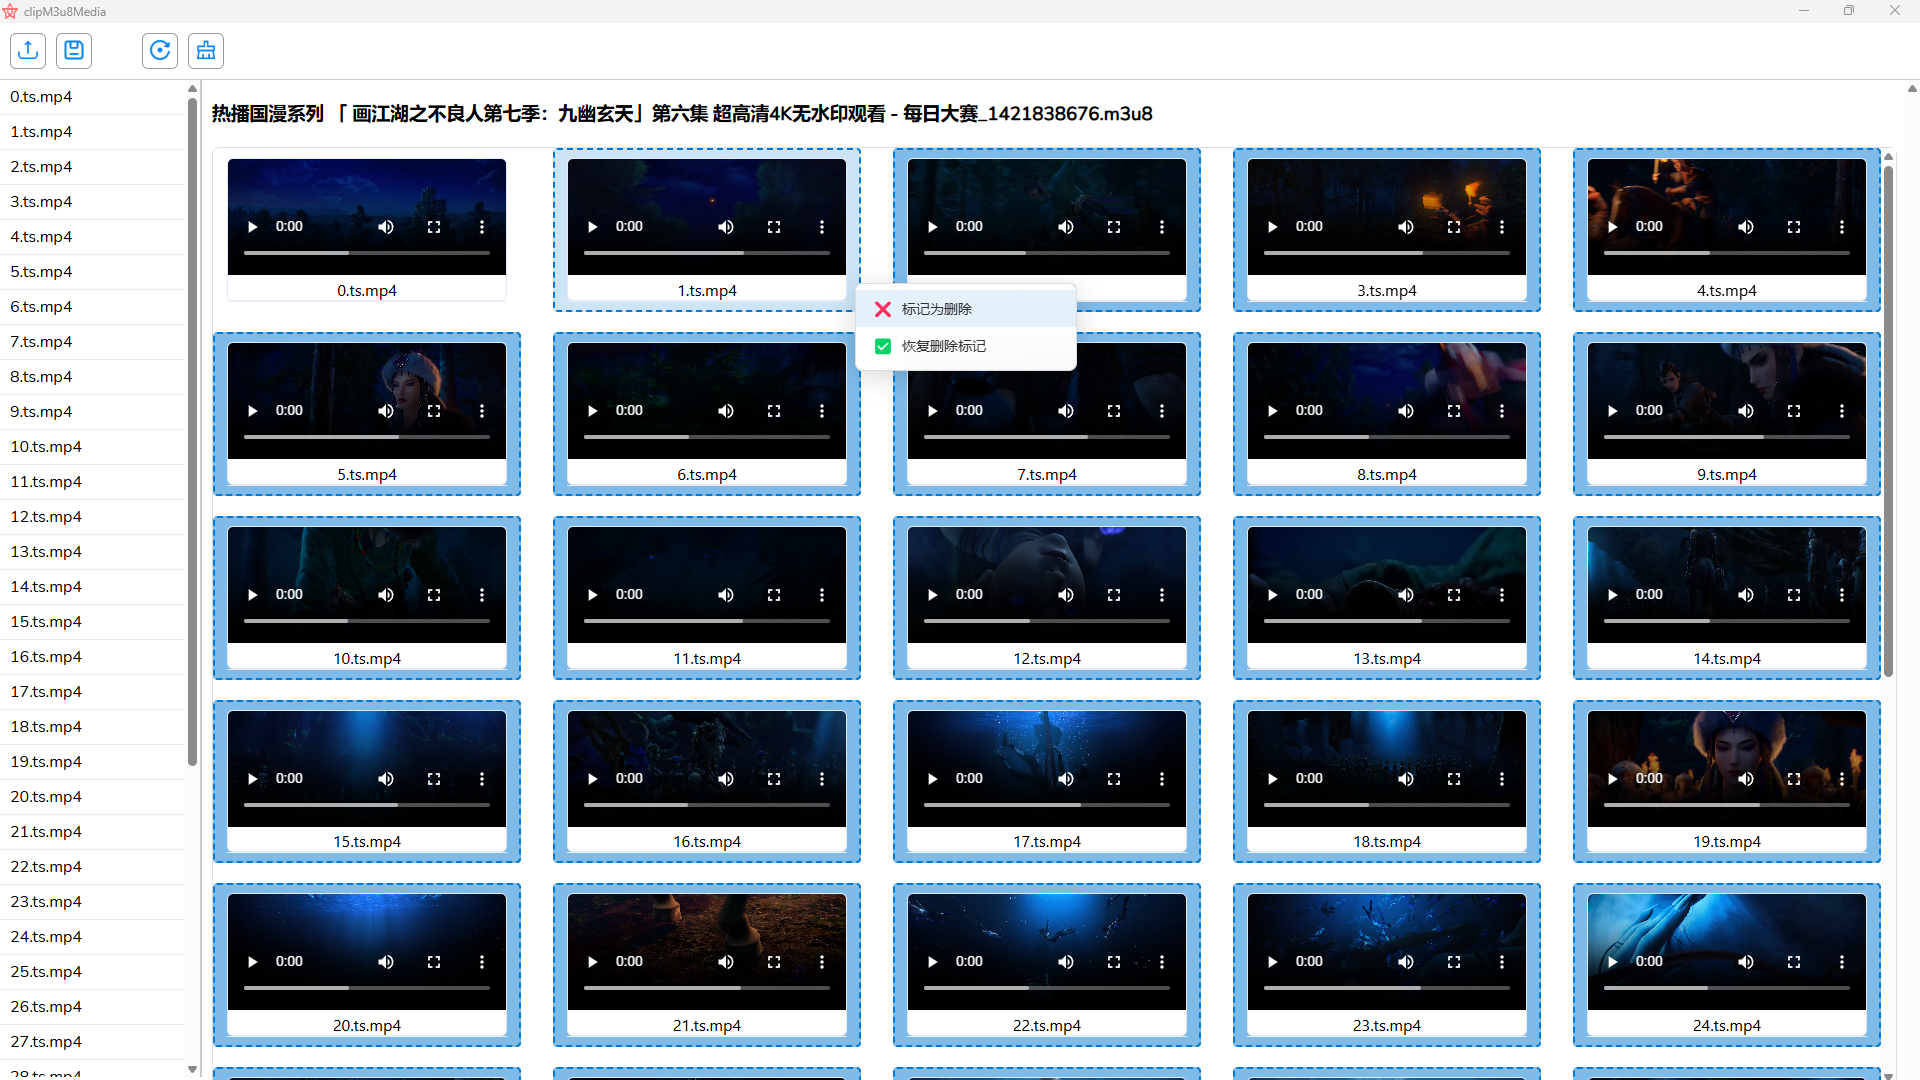
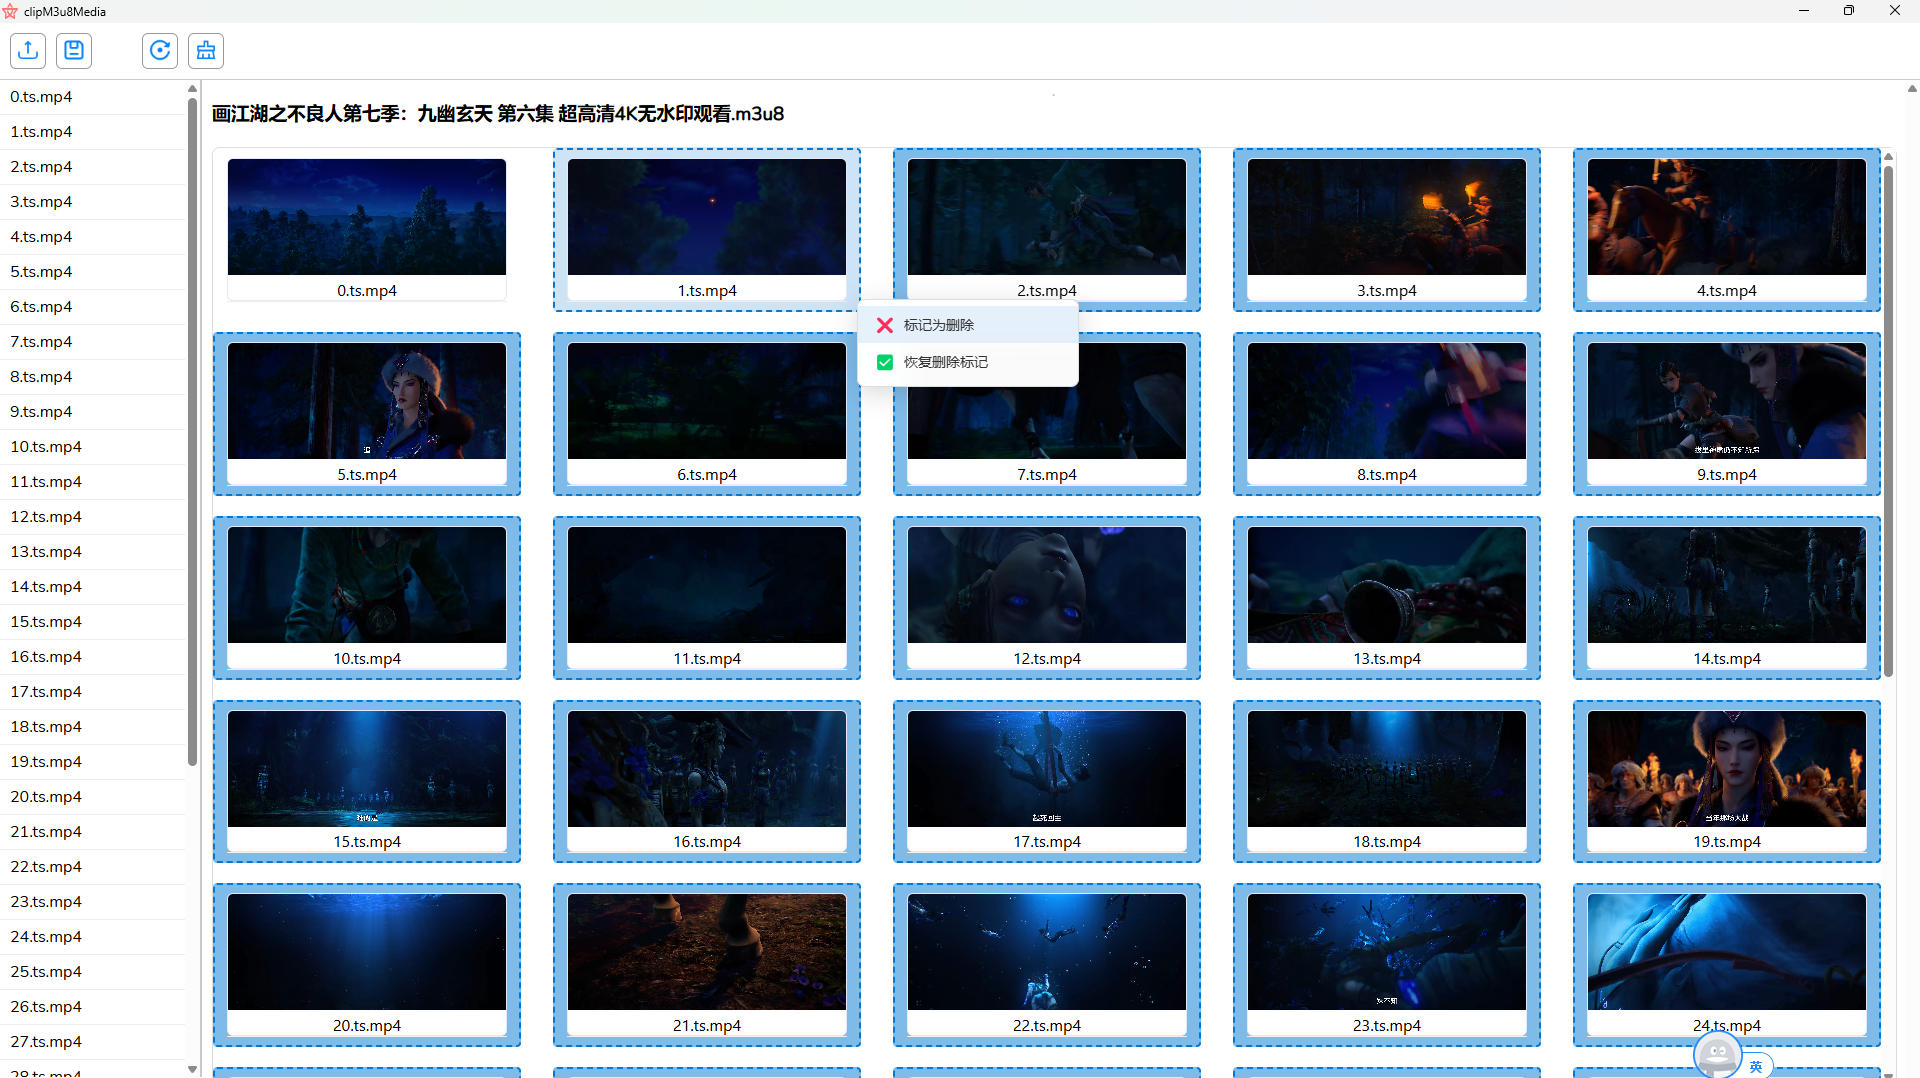
optimize:

diff --git a/frontend/src/App.vue b/frontend/src/App.vue
@@ -176,6 +176,7 @@ const initMergeSucCacheData = ()=>{
           </div>
           <VideoExplorer
             ref="explorerRef"
+            v-show="state.uploadM3u8Data.PlayPathList.length>0"
             :items="state.uploadM3u8Data.PlayPathList"
             :multi-select="true"
             class="explorer"
@@ -221,8 +222,31 @@ const initMergeSucCacheData = ()=>{
       padding: 0 10px;
       overflow: hidden;
       overflow-y: scroll;
+      position: relative;
+      &::after{ 
+        content: '.';
+        display: block;
+        position: absolute;
+        /* width: calc(100vw - 200px);
+        height: calc(100vh - 80px); */
+        top: 0;
+        bottom: 0;
+        right: 0;
+        left: 0;  
+        z-index: 0;
+        background-image: url("./assets/images/logo.png");
+        background-size: 200px;
+        background-repeat: no-repeat;
+        background-position: center;
+        opacity: 0.3;
+        filter:  grayscale(100%);
+      }
+      &>*{
+        z-index: 1;
+      }
       &>section{
         box-sizing: border-box;
+        position: relative;
         #selectFileName{
           box-sizing: border-box;
           text-align: left;

diff --git a/frontend/src/components/video.vue b/frontend/src/components/video.vue
@@ -18,6 +18,7 @@ export default {
   data() {
     return {
       fileName: '',
+      controls: false,
     };
   },
   mounted() {},
@@ -48,11 +49,17 @@ export default {
         id: id,
         ref: id,
         class: ['my-video'],
-        controls: true,
+        controls: this.controls,
         src: url,
         width: '100%',
         onLoadedMetadata: () => {
           this.callback();
+        },
+        onMouseover: () => {
+          this.controls = true;
+        },
+        onMouseout: () => {
+          this.controls = false;
         }
       }) ,
       h('div', {

diff --git a/frontend/src/components/Header.vue b/frontend/src/components/Header.vue
@@ -43,7 +43,7 @@ function  onSelectM3u8() {
   OpenFileDialog(options).then((m3u8Path)=> {
     if (m3u8Path && m3u8Path.length > 0) {
       console.log('用户选择了文件：', m3u8Path);
-      toast.warning("正在解析视频....", -1)
+      toast.warning("正在解析视频，请耐心等待....", -1)
 
       OpenM3u8File(m3u8Path).then((res :uploadM3u8Interface)=>{ 
         toast.success("解析完成", 10000)
